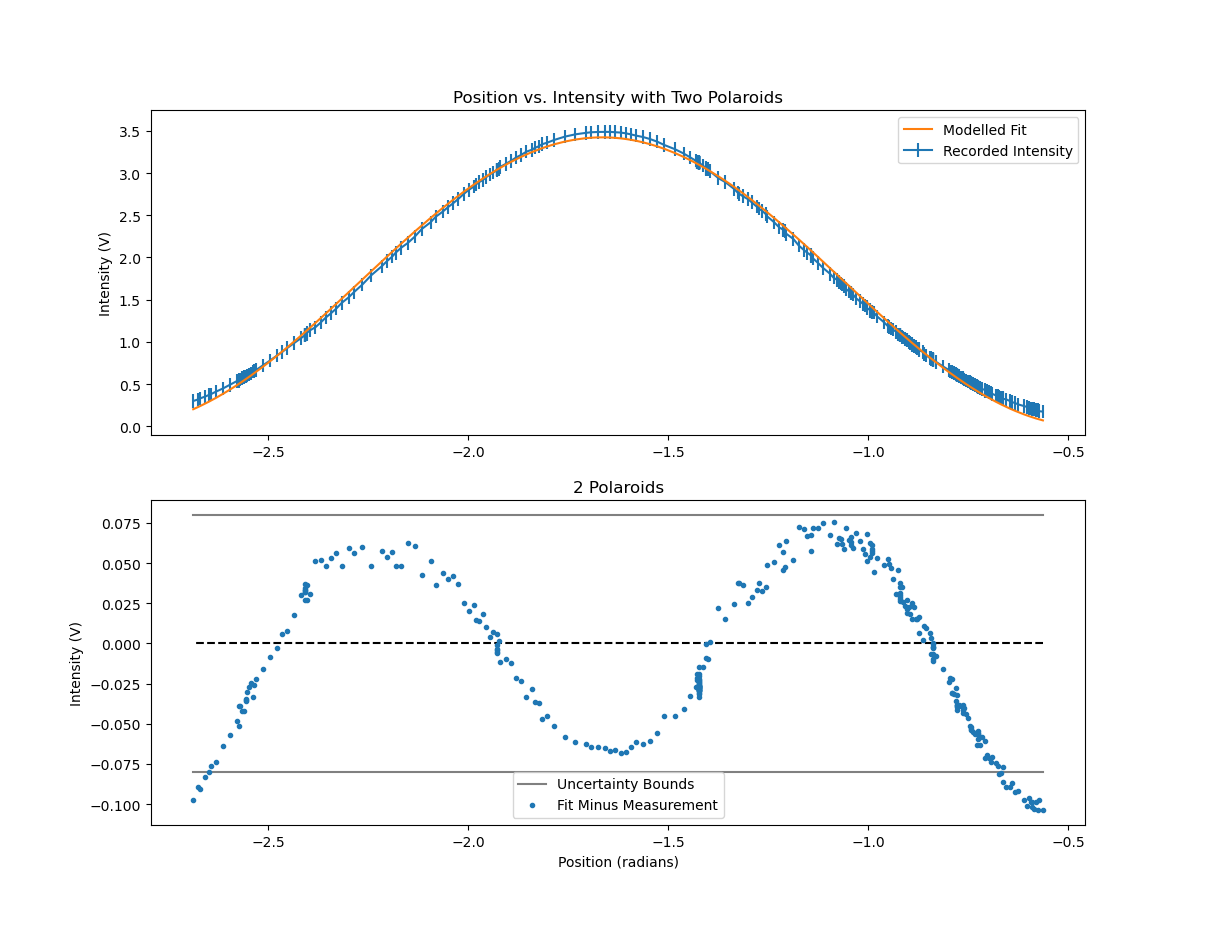
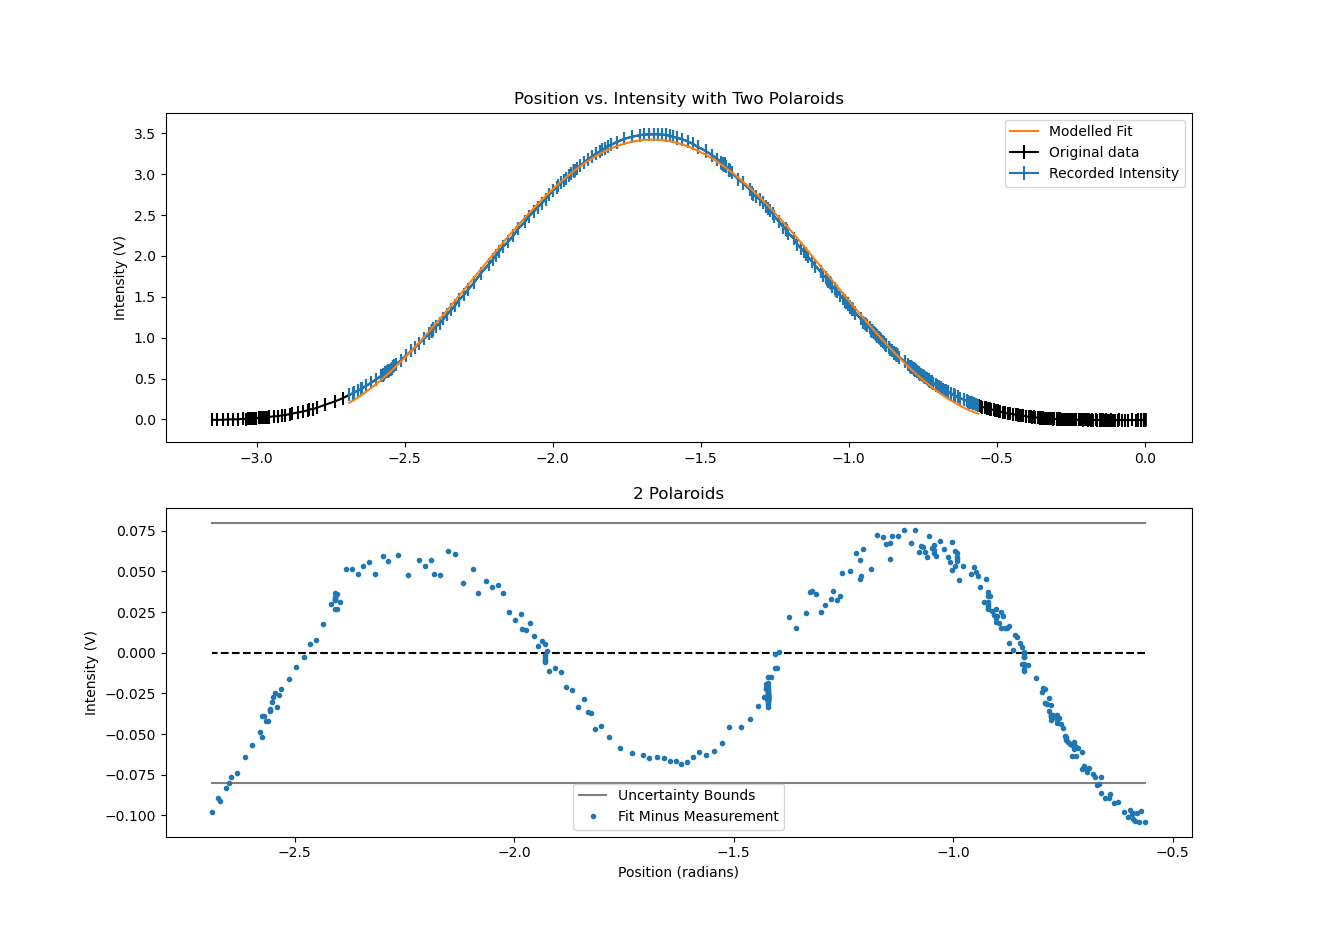
changing graphs slightly

diff --git a/malus_law.py b/malus_law.py
@@ -82,17 +82,21 @@ if __name__ == "__main__":
 
     # ANALYSIS FOR 2 POLARIZERS
 
-    plotting_2 = False
+    plotting_2 = True
 
     #loading data
 
     # print(read_file("malus_law_JA-ERA-2polarizers.txt"))
-    position2, intensity2 = read_file("malus_law_JA-ERA-2polarizers.txt")
-    position2 = position2[170:490]
-    intensity2 = intensity2[170:490]
+    position2_0, intensity2_0 = read_file("malus_law_JA-ERA-2polarizers.txt")
+
+    position2 = position2_0[170:490]
+    intensity2 = intensity2_0[170:490]
 
     uncertainty2 = np.zeros(len(intensity2)) + 8e-2
     ux_2 = np.zeros(len(position2)) + 5e-4
+
+    uncertainty2_0 = np.zeros(len(intensity2_0)) + 8e-2
+    ux_2_0 = np.zeros(len(position2_0)) + 5e-4
     
     # print(np.min(intensity3))
     
@@ -112,7 +116,9 @@ if __name__ == "__main__":
     residual_2 = calc_residual(fx_2, intensity2)
 
     if plotting_2:
-        fig, (ax1,ax2) = plt.subplots(2,1)
+        fig, (ax1,ax2,) = plt.subplots(2,1)
+
+        ax1.errorbar(position2_0, intensity2_0, xerr=ux_2_0, yerr=uncertainty2_0, zorder=0, label='Original data', color='black')
 
         ax1.errorbar(position2, intensity2, xerr=ux_2, yerr=uncertainty2, zorder=1, label='Recorded Intensity') # plotting 2 polaroids
         ax1.set_title("Position vs. Intensity with Two Polaroids")
